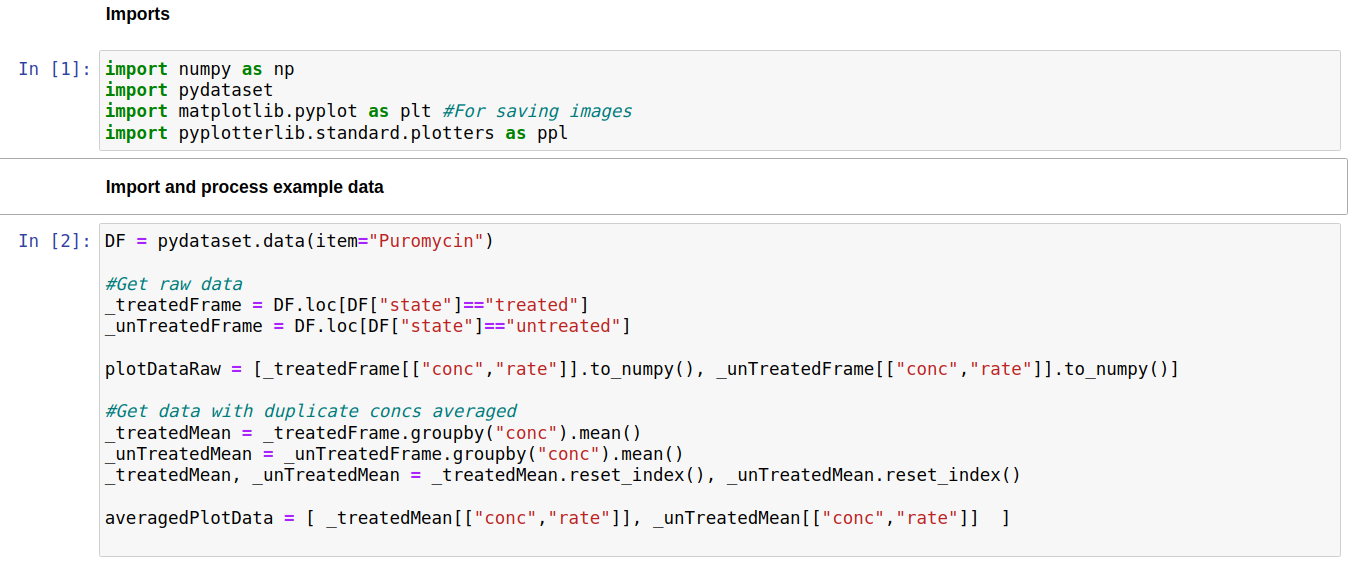
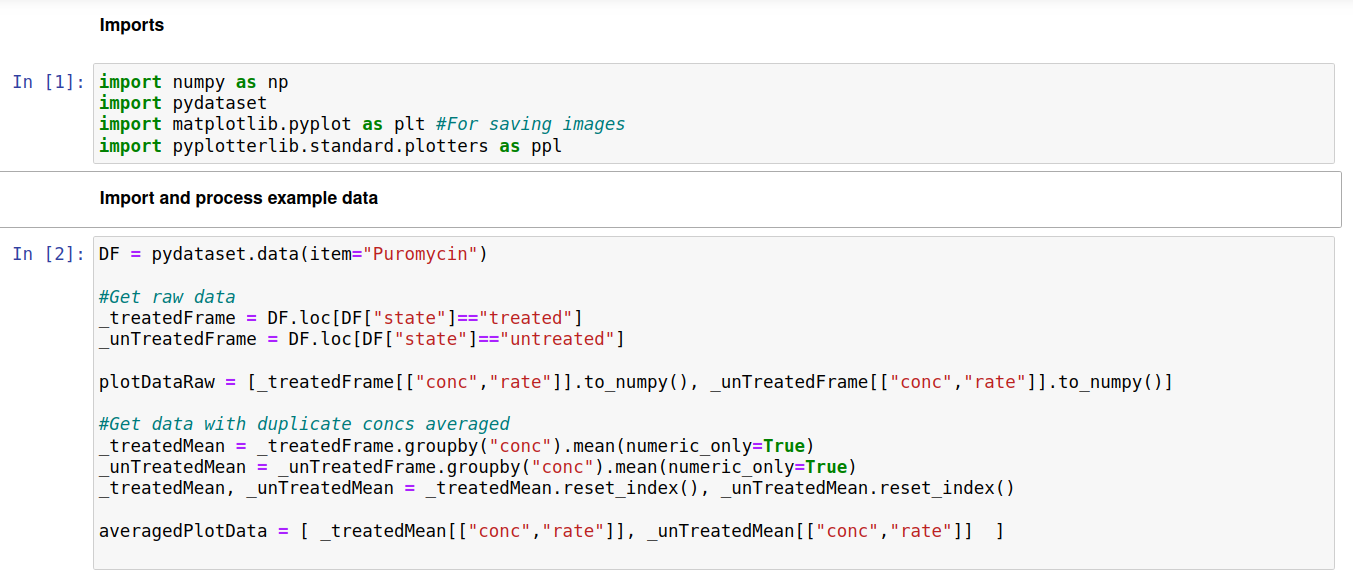
docs: Updated line plotter to work with newer pandas version
A .mean() needed changing to .mean(to_numeric=True)

diff --git a/docs/content/examples/line_plotter.rst b/docs/content/examples/line_plotter.rst
@@ -46,8 +46,8 @@ The code below can be run directly, assuming dependencies are properly installed
 	_unTreatedFrame = DF.loc[DF["state"]=="untreated"]
 	plotDataRaw = [_treatedFrame[["conc","rate"]].to_numpy(), _unTreatedFrame[["conc","rate"]].to_numpy()]
 	
-	_treatedMean = _treatedFrame.groupby("conc").mean()
-	_unTreatedMean = _unTreatedFrame.groupby("conc").mean()
+	_treatedMean = _treatedFrame.groupby("conc").mean(numeric_only=True)
+	_unTreatedMean = _unTreatedFrame.groupby("conc").mean(numeric_only=True)
 	_treatedMean, _unTreatedMean = _treatedMean.reset_index(), _unTreatedMean.reset_index()
 	averagedPlotData = [ _treatedMean[["conc","rate"]], _unTreatedMean[["conc","rate"]]  ]
 	
